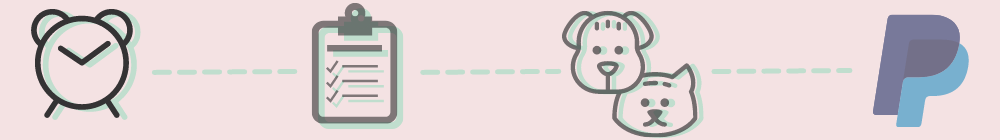
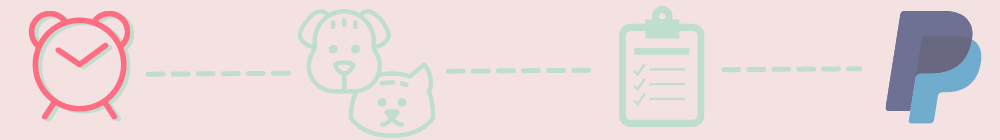
Progress bar for grooming and check up, payment screen improved

Changed region(s): [[0.031, 0.0286, 0.992, 1.0]]

diff --git a/lib/paymentscreen.dart b/lib/paymentscreen.dart
@@ -18,12 +18,20 @@ class Paymentscreen extends StatefulWidget{
   _Paymentscreen createState()=>_Paymentscreen();
 }
 class _Paymentscreen extends State<Paymentscreen>{
+  String img ="";
 appointment? a;
 double? price;
 fbHelper fb = fbHelper();
   void initState() {
     super.initState();
 a= widget.appoint;
+    if (a!.type == "Check-Up"){
+      img ='images/PBCheckUpStepthree.png';
+    }
+    else
+      img ='images/PBGroomingStepFour.png';
+
+
 price = a!.total;//here var is call and set to
   }
 String _loadHTML(){
@@ -33,7 +41,64 @@ String _loadHTML(){
   @override
   Widget build(BuildContext context) {
     return Scaffold(
-        body: WebView(
+        appBar: AppBar(
+          backgroundColor: Colors.transparent,
+          elevation: 0,
+          leading: ElevatedButton(
+            onPressed: () {
+              Navigator.of(context).pop();
+            },
+            child: Icon(Icons.arrow_back_ios, color: Color(0xFF2F3542)),
+            style: ElevatedButton.styleFrom(
+              shape: CircleBorder(),
+              padding: EdgeInsets.all(20),
+              primary: Colors.transparent,
+              shadowColor: Colors.transparent,
+            ),
+          ), // <-- Button color// <-- Splash color
+        ),
+        backgroundColor: const Color(0xFFF4E3E3),
+
+        body: SingleChildScrollView(
+          child: Column(
+              mainAxisAlignment: MainAxisAlignment.center,
+              children: [
+          Container(
+          margin: const EdgeInsets.fromLTRB(0, 0, 0, 0),
+          child: Text(
+            'Payment',
+            style: TextStyle(
+                color: Color(0XFFFF6B81),
+                fontSize: 34,
+                fontStyle: FontStyle.normal,
+                fontWeight: FontWeight.bold),
+          ),
+        ),
+        SizedBox(height: 20),
+
+        Row(
+          mainAxisAlignment: MainAxisAlignment.center,
+          children: [
+            Image(
+                height: 40,
+                fit: BoxFit.fill,
+                image: new AssetImage(img))
+          ],
+        ),
+                SizedBox(height: 20),
+
+                Container(
+                    constraints: BoxConstraints(
+                      maxHeight: 550,
+                      maxWidth: 350,
+                    ),
+                    decoration: BoxDecoration(
+                        borderRadius: BorderRadius.all(Radius.circular(20)),
+                        color: Color(0xffffffff)),
+                    child: ClipRRect(
+                        borderRadius: BorderRadius.all(Radius.circular(20)),
+                        child:
+        WebView(
           onPageStarted:(url) {
             if (url.contains('/success')) {
               print(url);
@@ -68,7 +133,7 @@ String _loadHTML(){
           javascriptMode: JavascriptMode.unrestricted,
           initialUrl: _loadHTML(),
         )
-    );
+                    ))] ),  ));
   }
   }
 

diff --git a/lib/OrderList.dart b/lib/OrderList.dart
@@ -25,10 +25,17 @@ class OrderListState extends State<OrderList> {
 
   appointment? a;
   String? aa;
+  String img="";
+
 
   void initState() {
     super.initState();
     a = widget.appoint;//here var is call and set to
+    if (a!.type == "Check-Up"){
+      img ='images/PBCheckUpStepTwo.png';
+    }
+    else
+      img ='images/PBGroomingStepThree.png';
   }
 
   @override
@@ -59,6 +66,18 @@ class OrderListState extends State<OrderList> {
                           fontWeight: FontWeight.bold),
                     ),
                   ),
+                  SizedBox(height: 10),
+
+                  Row(
+                    mainAxisAlignment: MainAxisAlignment.center,
+                    children: [
+                      Image(
+                          height: 40,
+                          fit: BoxFit.fill,
+                          image: new AssetImage(img))
+                    ],
+                  ),
+                  SizedBox(height: 10),
                 /*  Container(
                     margin: const EdgeInsets.fromLTRB(20, 20, 0, 30),
                     alignment: Alignment.topLeft,

diff --git a/lib/grooming.dart b/lib/grooming.dart
@@ -97,6 +97,17 @@ appointment? a;
                     fontWeight: FontWeight.bold),
               ),
             ),
+            SizedBox(height: 20),
+
+            Row(
+              mainAxisAlignment: MainAxisAlignment.center,
+              children: [
+                Image(
+                    height: 40,
+                    fit: BoxFit.fill,
+                    image: new AssetImage("images/PBGroomingStepTwo.png"))
+              ],
+            ),
 
             Container(
               margin: const EdgeInsets.fromLTRB(20, 40, 0, 0),

diff --git a/lib/select_appt.dart b/lib/select_appt.dart
@@ -110,7 +110,7 @@ class selectState extends State<select> {
             mainAxisAlignment: MainAxisAlignment.center,
             children: [
               Image(
-                  height: 35,
+                  height: 40,
                   fit: BoxFit.fill,
                   image: new AssetImage(img))
             ],
